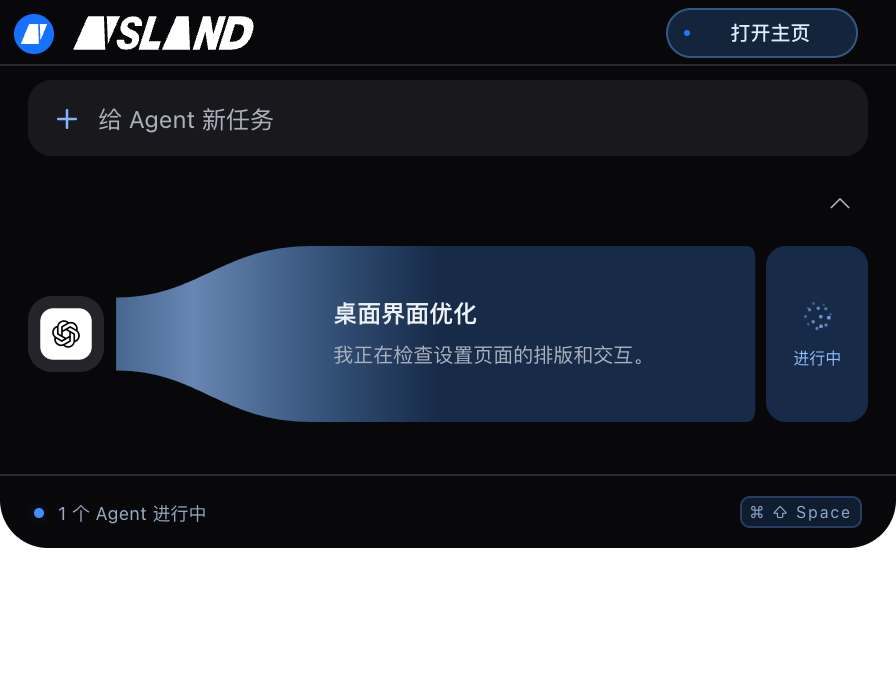
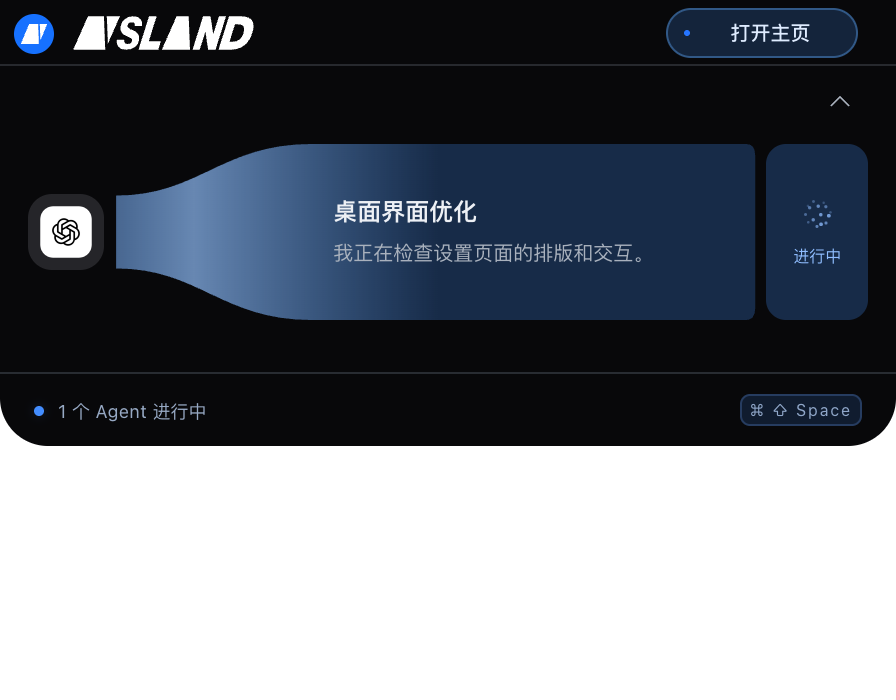
Publish streamlined workspace in AISLAND 0.3.36

diff --git a/public/docs/index.html b/public/docs/index.html
@@ -1,7 +1,7 @@
-<!doctype html><html lang="zh-CN"><head><meta charset="utf-8"><meta name="viewport" content="width=device-width,initial-scale=1"><title>使用文档 — AISLAND</title><meta name="description" content="AISLAND 的安装、快速体验、Node.js 与 Python 接入、审批安全和本地数据说明。"><meta name="theme-color" content="#ffffff"><link rel="canonical" href="https://calibg.github.io/agent-island/docs/"><link rel="icon" href="../assets/icon.svg?v=runways-35" type="image/svg+xml"><link rel="stylesheet" href="../marketing.css"><link rel="stylesheet" href="../docs.css"><script src="../site.js" defer></script></head><body class="landing">
-<a class="skip-link" href="#main">跳到文档内容</a><header class="header"><div class="container header-inner"><a class="brand" href="../"><img src="../assets/wordmark.svg?v=runways-35" width="150" height="28" alt="AISLAND"></a><nav class="nav" id="navigation" aria-label="主导航"><a href="../#product">产品体验</a><a href="../#connect">通用接入</a><a href="./" aria-current="page">使用文档</a></nav><a class="nav-download" href="../#download">下载体验 <span aria-hidden="true">↗</span></a><button class="menu-toggle" aria-expanded="false" aria-controls="navigation" aria-label="展开导航"><span></span><span></span></button></div></header>
+<!doctype html><html lang="zh-CN"><head><meta charset="utf-8"><meta name="viewport" content="width=device-width,initial-scale=1"><title>使用文档 — AISLAND</title><meta name="description" content="AISLAND 的安装、快速体验、Node.js 与 Python 接入、审批安全和本地数据说明。"><meta name="theme-color" content="#ffffff"><link rel="canonical" href="https://calibg.github.io/agent-island/docs/"><link rel="icon" href="../assets/icon.svg?v=workspace-36" type="image/svg+xml"><link rel="stylesheet" href="../marketing.css"><link rel="stylesheet" href="../docs.css"><script src="../site.js" defer></script></head><body class="landing">
+<a class="skip-link" href="#main">跳到文档内容</a><header class="header"><div class="container header-inner"><a class="brand" href="../"><img src="../assets/wordmark.svg?v=workspace-36" width="150" height="28" alt="AISLAND"></a><nav class="nav" id="navigation" aria-label="主导航"><a href="../#product">产品体验</a><a href="../#connect">通用接入</a><a href="./" aria-current="page">使用文档</a></nav><a class="nav-download" href="../#download">下载体验 <span aria-hidden="true">↗</span></a><button class="menu-toggle" aria-expanded="false" aria-controls="navigation" aria-label="展开导航"><span></span><span></span></button></div></header>
 <div class="container docs-layout"><aside class="docs-sidebar" aria-label="文档目录"><p class="eyebrow">GETTING STARTED</p><a href="#install">安装与打开</a><a href="#first-use">第一次体验</a><a href="#desktop-agents">桌面 Agent 与启动设置</a><a href="#quickstart">接入你的 Agent</a><a href="#approvals">审批与问答</a><a href="#capabilities">当前支持范围</a><a href="#privacy">数据与隐私</a><a href="#troubleshooting">常见问题</a><a href="./protocol.md">完整 HTTP 协议 ↗</a></aside>
-<main class="docs-content" id="main"><p class="eyebrow">AISLAND / DOCUMENTATION</p><h1>从这里，开始登岛。</h1><p class="docs-lead">安装应用，体验小岛，再把你自己的 Agent 接进来。<br>适用于 v0.3.35 预览版。</p>
+<main class="docs-content" id="main"><p class="eyebrow">AISLAND / DOCUMENTATION</p><h1>从这里，开始登岛。</h1><p class="docs-lead">安装应用，体验小岛，再把你自己的 Agent 接进来。<br>适用于 v0.3.36 预览版。</p>
 <section id="install"><h2>安装与打开</h2><p>应用本身不需要 Node.js 或 Python。Claude Code、Codex、WorkBuddy、Antigravity 的 Hooks 需要 Python 3.9+；对应 SDK 需要 Node.js 20+ 或 Python 3.9+。</p><h3>macOS · Apple Silicon</h3><ol><li>从<a href="../#download">下载页面</a>获取 DMG，打开后将 AISLAND 拖入 Applications（应用程序）。</li><li>从应用程序中启动 AISLAND。</li><li>当前提供 M 系列芯片版本，尚未提供 Intel 安装包。</li></ol><p>桌面界面跟随系统明暗模式。macOS 开关使用 AppKit NSSwitch；Windows 设置使用微软官方 Fluent UI React 组件，并保留系统窗口按钮。</p><h3>Windows · x64</h3><ol><li>下载 EXE 安装程序，按提示安装并打开。</li></ol><div class="doc-note"><p>当前是未签名的预览版，尚未完成 Apple Developer ID 公证或 Windows Authenticode 签名。首次打开可能出现系统来源提示，请先确认下载地址和<a href="../download-checksums.txt">文件校验信息</a>。Mac 已完成自动化验证，Windows 安装包已构建，尚待实机验证。</p></div><p>应用常驻菜单栏或系统托盘。关闭管理窗口不会退出应用；如需完全退出，请使用托盘菜单中的「退出」。</p></section>
 <section class="doc-section" id="first-use"><h2>接入 Claude Code</h2><ol><li>启动 AISLAND，打开「工具接入」，点击 Claude Code 的「安装接入」。这一步需要 Python 3.9+。</li><li>在项目终端运行 <code>claude</code>。已启动的会话可重启一次或用 <code>/hooks</code> 检查配置。</li><li>提交真实任务后，小岛显示运行状态；权限确认和问题回答会返回当前 Claude Code 会话。</li></ol><p>保留你已有的 Hooks、模型和权限配置。只有明确确认才允许操作；小岛不在线或请求超时，回到 Claude Code 原有交互。计划确认仍在终端处理。</p><p>快捷键：macOS 为 Cmd + Shift + Space，Windows 为 Ctrl + Shift + Space。</p></section>
 <section id="desktop-agents"><h2>Codex、Antigravity 与接入助手</h2><p>在应用「工具接入」中打开接入助手。先检查 Python 3.9+ 和 Codex，再安装接入配置。助手保留已有配置并备份，不会更改权限策略。</p><h3>Codex 桌面软件</h3><ol><li>点击「安装 Codex 接入」，等待写入完成。</li><li>点击「打开审核终端」，在 Codex 中输入 <code>/hooks</code>，审核并信任「AISLAND · Codex」条目。审核不会自动进行。</li><li>回到小岛点击「重新检查」。显示已启用并信任后，重启 Codex 桌面端并开启新任务。</li></ol><p>支持真实进度、工具调用、权限确认、结束与中断。问答和计划仍在 Codex 中完成。用户级 Hooks 也会被同一配置下的 CLI 加载；小岛跳转唤起桌面软件，不定位具体聊天。</p><h3>Antigravity</h3><p>在对应接入卡片点击安装，重启 Antigravity 并开启新任务。支持进度、工具调用与后台任务状态。权限和问答在 Antigravity 内处理。</p><h3>登录后自动运行</h3><p>「登录后自动启动小岛」与「启动时运行接入检查」是独立开关，默认关闭。前者运行本机服务；后者只读检查环境与 Hooks 状态，发现未完成步骤时显示助手，不自动批准 Hooks。</p><p>应用先放入应用程序目录或通过 Windows 安装程序安装。系统要求批准登录项时，请在系统设置中完成；未签名 macOS 预览包的登录启动可能受系统限制。界面显示系统实际状态，不能等同于已经实测重启。</p><p>「已配置」不代表已经连接。收到真实 Hook 后才显示事件回执。安装脚本与配置不上传网站。</p></section><section class="doc-section" id="quickstart"><h2>接入你的 Agent</h2><h3>第一次接入：复制一段指令</h3><ol><li>在 AISLAND 打开「工具接入」，点击「复制接入指令」。</li><li>粘贴到这台电脑上的 Agent 对话中，让它按指令完成接入配置。</li><li>回到 AISLAND。收到对应 Agent 的回执后，导览会自动显示「本机通信已验证」。</li></ol><p>无需手动填写端口或拼接命令，SDK 路径和接入说明会自动加入指令。适用于能读取本机文件、执行命令的 Agent；仅聊天的网页应用不能靠粘贴文字接入。验证不会创建演示任务。真实进度、审批和问答需由 Agent 接入对应的回调，后台派发能力单独判断。SDK、地址和示例命令仍可在「高级接入」中找到。</p><h3>开发者：手动接入 SDK</h3><p>先启动 AISLAND，再把 SDK 文件复制到你自己的项目。SDK 会读取当前用户目录下的本机连接信息，向应用报告状态。无需第三方依赖，也不需要填写 AI 服务密钥。</p><div class="doc-downloads"><a class="button" href="../sdk/agent-island.mjs" download>下载 Node.js SDK ↓</a><a class="button" href="../sdk/agent_island.py" download>下载 Python SDK ↓</a><a class="button" href="../sdk/example.mjs" download>下载完整 Node.js 示例 ↓</a></div><h3>Node.js</h3><p>将以下代码保存为 <code>connect.mjs</code>，与 <code>agent-island.mjs</code> 放在同一个目录，然后运行 <code>node connect.mjs</code>。</p><pre><code>import { AgentIsland } from './agent-island.mjs';
@@ -33,10 +33,10 @@ if (result.decision === 'allow') {
 } else {
   await island.complete('操作未获批准。');
 }</code></pre><p>审批最多等待约 10 分钟。超时、断线、会话结束、应用退出或重启，都不会自动批准。接入方必须把错误与 <code>cancel</code> 视为未批准，不应在捕获异常后继续执行待确认操作。</p><p>Node.js SDK 还提供 <code>ask()</code>（单选、多选、自定义回答）、<code>plan()</code>（计划与反馈）和 <code>usage()</code>（真实上报的用量）。可下载完整示例体验双向交互。Python 可用 <code>send()</code> 发送协议定义的其他事件。</p></section>
-<section class="doc-section" id="more-agents"><h2>Gemini、Cursor、MiniMax 与智谱</h2><p>v0.3.29 新增 Gemini CLI 与 Cursor 的官方 Hooks 观察接入。在「工具接入」安装后开启新会话，收到任务事件才显示已收到事件。支持任务和工具状态、最终回复；审批与续发仍在原应用完成。Gemini CLI 与 Gemini 网页是不同的接入。</p><p>MiniMax Code 使用本地 Plugin V1 Hooks。安装官方 MiniMax Code 和 mcode 命令后，在「工具接入 → MiniMax Code」点击「接入」：AISLAND 会查询当前配置的本地插件目录，安装、启用并检查插件。更新前备份旧插件，遇到其他同名插件不会覆盖。也可以展开说明选择「手动安装插件」。开始真实任务后收到事件，才说明进度链路已接通；审批、问答与续发仍在 MiniMax Code 完成。MiniMax Design 不适用。</p><p>智谱 GLM 可通过已配置 GLM 的 Claude Code 接入：安装 Claude Code Hooks 后，根据事件明确提供的模型标识显示智谱，仍续发到同一个 Claude Code 会话。不会自动连接智谱清言或 AutoGLM。智谱清言客户端已单独列出，目前原会话读取、进度同步与后台续发仍待实机验证；开放平台的助手 API 不代表已经接通清言客户端。</p><p>豆包电脑版、Grok 原有对话的状态同步与后台续发目前尚未接通；公开模型 API 不代表可以读取这些产品里的现有对话。应用会明确显示限制。</p><p>新适配器已通过隔离 Hook 进程与本地桥的协议测试；所有新客户端的用户账户实机验收仍待完成。官方参考：<a href="https://geminicli.com/docs/hooks/reference/">Gemini CLI Hooks</a>、<a href="https://cursor.com/docs/hooks">Cursor Hooks</a>、<a href="https://github.com/MiniMax-AI/minimax-code/blob/main/docs/hooks.md">MiniMax Hooks</a>、<a href="https://docs.bigmodel.cn/cn/coding-plan/best-practice/claude-code">智谱接入指南</a>。</p></section><section class="doc-section" id="capabilities"><h2>当前支持范围</h2><p>v0.3.35 简化会话分组：收起时只显示 Agent 名称和展开图标，空闲时为灰色跑道，有任务进行时显示蓝色渐变流动；展开后直接显示分叉内容，不重复展示分组名称、状态说明和会话数量。</p><p>v0.3.30 的分叉根据任务活动调整高度：活跃任务更突出，暂停、完成和长期无进展的会话更紧凑。左侧图标区域随任务量适度增长，始终小于分支总高度的 2/3。五分钟没有新进展只影响显示空间，不改变任务状态；鼠标操作或输入时固定布局，原有蓝色动效保留。</p><div class="table-scroll"><table><thead><tr><th>功能</th><th>v0.3.35 状态</th></tr></thead><tbody><tr><td>桌面小岛、悬停、快捷键、多显示器</td><td>已提供</td></tr><tr><td>Mac 原生刘海定位与 Force Touch 进入反馈</td><td>已提供；触感需支持的触控板</td></tr><tr><td>事件提示音、音量、安静时段、减少动态效果</td><td>已提供</td></tr><tr><td>会话搜索、筛选、活动记录、归档</td><td>已提供</td></tr><tr><td>审批、问答、计划审阅、用量上报</td><td>已提供</td></tr><tr><td>Node.js / Python / HTTP 通用接入</td><td>已提供</td></tr><tr><td>Claude Code Hooks</td><td>状态、权限确认与问答已提供；计划确认在终端</td></tr><tr><td>Codex / Antigravity</td><td>真实 Hooks 接入；具体能力与首次信任见上文</td></tr><tr><td>接入助手与启动检查</td><td>环境检查、官方信任状态、用户自行选择登录启动</td></tr><tr><td>厂商账户额度自动采集、SSH、手机推送、自动更新</td><td>未提供</td></tr></tbody></table></div><p>应用采用 Electron + React 与 macOS 原生面板模块。Mac 读取刘海安全区并从下沿展开；Windows 从屏幕顶部中央展开，外接屏无需物理刘海。AISLAND 为独立实现，不是 Vibe Island 的官方版本。</p></section>
+<section class="doc-section" id="more-agents"><h2>Gemini、Cursor、MiniMax 与智谱</h2><p>v0.3.29 新增 Gemini CLI 与 Cursor 的官方 Hooks 观察接入。在「工具接入」安装后开启新会话，收到任务事件才显示已收到事件。支持任务和工具状态、最终回复；审批与续发仍在原应用完成。Gemini CLI 与 Gemini 网页是不同的接入。</p><p>MiniMax Code 使用本地 Plugin V1 Hooks。安装官方 MiniMax Code 和 mcode 命令后，在「工具接入 → MiniMax Code」点击「接入」：AISLAND 会查询当前配置的本地插件目录，安装、启用并检查插件。更新前备份旧插件，遇到其他同名插件不会覆盖。也可以展开说明选择「手动安装插件」。开始真实任务后收到事件，才说明进度链路已接通；审批、问答与续发仍在 MiniMax Code 完成。MiniMax Design 不适用。</p><p>智谱 GLM 可通过已配置 GLM 的 Claude Code 接入：安装 Claude Code Hooks 后，根据事件明确提供的模型标识显示智谱，仍续发到同一个 Claude Code 会话。不会自动连接智谱清言或 AutoGLM。智谱清言客户端已单独列出，目前原会话读取、进度同步与后台续发仍待实机验证；开放平台的助手 API 不代表已经接通清言客户端。</p><p>豆包电脑版、Grok 原有对话的状态同步与后台续发目前尚未接通；公开模型 API 不代表可以读取这些产品里的现有对话。应用会明确显示限制。</p><p>新适配器已通过隔离 Hook 进程与本地桥的协议测试；所有新客户端的用户账户实机验收仍待完成。官方参考：<a href="https://geminicli.com/docs/hooks/reference/">Gemini CLI Hooks</a>、<a href="https://cursor.com/docs/hooks">Cursor Hooks</a>、<a href="https://github.com/MiniMax-AI/minimax-code/blob/main/docs/hooks.md">MiniMax Hooks</a>、<a href="https://docs.bigmodel.cn/cn/coding-plan/best-practice/claude-code">智谱接入指南</a>。</p></section><section class="doc-section" id="capabilities"><h2>当前支持范围</h2><p>v0.3.36 移除桌面与小岛顶部的独立新任务横条，以及会话页的筛选、搜索和工具栏。可以继续通过每条会话右侧的状态节点输入后续任务。</p><p>v0.3.35 简化会话分组：收起时只显示 Agent 名称和展开图标，空闲时为灰色跑道，有任务进行时显示蓝色渐变流动；展开后直接显示分叉内容，不重复展示分组名称、状态说明和会话数量。</p><p>v0.3.30 的分叉根据任务活动调整高度：活跃任务更突出，暂停、完成和长期无进展的会话更紧凑。左侧图标区域随任务量适度增长，始终小于分支总高度的 2/3。五分钟没有新进展只影响显示空间，不改变任务状态；鼠标操作或输入时固定布局，原有蓝色动效保留。</p><div class="table-scroll"><table><thead><tr><th>功能</th><th>v0.3.36 状态</th></tr></thead><tbody><tr><td>桌面小岛、悬停、快捷键、多显示器</td><td>已提供</td></tr><tr><td>Mac 原生刘海定位与 Force Touch 进入反馈</td><td>已提供；触感需支持的触控板</td></tr><tr><td>事件提示音、音量、安静时段、减少动态效果</td><td>已提供</td></tr><tr><td>会话分组、后续任务、活动记录</td><td>已提供</td></tr><tr><td>审批、问答、计划审阅、用量上报</td><td>已提供</td></tr><tr><td>Node.js / Python / HTTP 通用接入</td><td>已提供</td></tr><tr><td>Claude Code Hooks</td><td>状态、权限确认与问答已提供；计划确认在终端</td></tr><tr><td>Codex / Antigravity</td><td>真实 Hooks 接入；具体能力与首次信任见上文</td></tr><tr><td>接入助手与启动检查</td><td>环境检查、官方信任状态、用户自行选择登录启动</td></tr><tr><td>厂商账户额度自动采集、SSH、手机推送、自动更新</td><td>未提供</td></tr></tbody></table></div><p>应用采用 Electron + React 与 macOS 原生面板模块。Mac 读取刘海安全区并从下沿展开；Windows 从屏幕顶部中央展开，外接屏无需物理刘海。AISLAND 为独立实现，不是 Vibe Island 的官方版本。</p></section>
 <section class="doc-section" id="privacy"><h2>数据与隐私</h2><p>桌面应用的桥接服务只监听 <code>127.0.0.1</code>，不向局域网开放。请求需通过本机令牌验证，并拒绝携带浏览器 Origin 的请求。不要公开或分享 <code>connection.json</code>。</p><p>会话文本与操作预览保存在 <code>~/.agent-island/state.json</code>。记录默认保留 7 天，下次启动时清理过期记录。在偏好设置中可打开数据目录。</p><p>AISLAND 默认只在本机运行，不设置遥测。主动启用手机连接后，进度摘要和手机指令在设备上用 AES-256-GCM 加密，再经过你配置的 Cloudflare Workers / D1 同步；服务端不持有解密密钥。电脑超过 24 小时不再同步时，服务会清理旧连接。手机配对信息保存在设备本地，配对链接相当于访问凭据，不要分享。你所接入的 AI 工具可能有自己的网络行为与数据策略，请以对应工具的设置为准。</p><p>本官网不嵌入分析追踪器，也不设置账户系统。网页由 GitHub Pages 托管，安装包通过 GitHub Releases 分发；访问与下载产生的基础服务日志由 GitHub 按其<a href="https://docs.github.com/en/site-policy/privacy-policies/github-general-privacy-statement">隐私声明</a>处理。</p></section>
 <section class="doc-section" id="mobile"><h2>手机同步与控制</h2><p>自部署用户可下载<a href="https://github.com/CaliBG/agent-island/releases/download/v0.3.0/Agent-Island-Sync-0.1.0.zip">免费同步服务部署包</a>，按其中 README 设置 Workers 和 D1。</p><ol><li>在电脑打开「设置 → 手机与远程」，配置你自己的 Cloudflare Workers 免费同步服务，然后生成配对码。已配置服务的电脑可直接生成二维码。</li><li>手机打开<a href="../mobile/">移动端</a>，扫码或粘贴配对链接。二维码仅用于配对，有效期 10 分钟。</li><li>iPhone 可通过 Safari「分享 → 添加到主屏幕」免费使用。Android 可从官网下载 APK 安装；原生预览版尚待真机验证。</li><li>按需在电脑分别允许「发送 Agent 任务」「调整保持唤醒」「打开远程控制软件」。三项默认关闭。</li></ol><p>前台约 5 秒刷新，手机进入后台后暂停轮询。电脑需运行 AISLAND 并联网；离线时只能查看最后同步的数据。发送后的“已排队”不等于执行成功，请以电脑返回的回执为准。保持唤醒不会解除手动锁屏，远程软件仍使用自身的登录和验证。</p><p>同步后端使用 Workers / D1 免费额度，超额时可能暂停，不会自动升级付费。AI 工具本身的订阅、额度以及第三方远程软件的收费由各厂商决定。iOS 原生工程已编译验证，尚未提供 App Store / TestFlight 安装。</p></section>
 <section class="doc-section" id="task-input"><h2>从小岛发送任务</h2><p>点击「给 Agent 新任务」，选择 Agent 和原对话；鼠标靠近分支右侧的状态按钮会自动弹出输入气泡；点击输入框后取得键盘焦点，已结束的会话也可正常输入。Codex、Claude Code 支持原会话续发，保留上下文；运行中可以排队发送，任务完成后自动续发，每个会话最多一条，可撤回编辑。应用重启或当前任务异常后，队列会暂停，需确认后重新提交。</p><p>Codex 使用官方 app-server 恢复同一个会话，桌面客户端可能需要重新打开对话才能显示新内容；Claude Code 使用官方 Agent SDK。两者沿用本机已有登录，不要求另外填写 API Key。需要审批时，在小岛逐次确认。</p></section>
 <section class="doc-section" id="workbuddy"><h2>接入 WorkBuddy</h2><ol><li>打开「设置 → Agent 接入 → WorkBuddy → 接入」。</li><li>在 WorkBuddy 审核新增 Hooks，再开启新会话；旧会话可能需要重启后加载配置。</li><li>开始真实任务后，设置页会显示「已收到事件」和时间；「已配置」只代表配置已写入。</li></ol><p>当前同步任务、工具调用、结束状态。v0.3.10 增加「填入原对话」：核对会话后通过系统辅助功能填入输入框，已有草稿不会覆盖，发送仍需在 WorkBuddy 确认。Mac 首次使用需允许辅助功能；适配 WorkBuddy 5.11.2，Mac 已由用户验证文字进入正确原对话框；Windows 实机仍待验收。Antigravity 和其他通用接入尚不支持可靠续发，输入框会明确提示。审批与问答仍在 WorkBuddy 完成。安装器会备份配置并保留其他 Hooks 和权限规则。</p></section><section class="doc-section" id="troubleshooting"><h2>常见问题</h2><h3>示例提示找不到 connection.json</h3><p>先打开 AISLAND，确认「工具接入」显示本地连接正常。SDK 和应用需要在同一台电脑、同一用户下运行。自定义数据路径时，可使用 <code>AGENT_ISLAND_HOME</code> 指向相应目录。</p><h3>小岛没有显示在预期位置</h3><p>使用快捷键唤起，或从托盘菜单打开管理窗口，检查偏好设置中的显示器与浮动方式。显示器断开后，应用会回退到可用屏幕。</p><h3>MacBook 没有感觉到震动</h3><p>在设置 → 外观与交互中开启「触控板触感」，将手指放在支持 Force Touch 的触控板上，点击「试一下」。每次进入只发送一次触感，默认清脆模式，可切换标准或轻触。系统公开接口不支持改变单次震动振幅。区域内移动不重复，移出再进入重新触发。声音开关与触感开关相互独立，普通鼠标本身不会震动。</p><h3>无法跳回终端</h3><p>macOS 首次定位 Terminal / iTerm2 会话可能需要系统自动化权限。Windows 在管理员窗口或某些全屏应用下可能拒绝切换焦点。若无法定位会话，可先从工具界面打开对应项目目录。</p><h3>发现其他问题</h3><p>请通过 <a href="https://github.com/CaliBG/agent-island/issues">GitHub Issues</a> 描述操作系统、应用版本与复现步骤。提交截图或日志前，请移除连接令牌、个人路径和项目敏感内容。</p></section>
-<div class="docs-footer">AISLAND v0.3.35 · <a href="../">返回官网</a> · <a href="https://github.com/CaliBG/agent-island/releases/tag/v0.3.35">查看发布记录</a></div></main></div>
+<div class="docs-footer">AISLAND v0.3.36 · <a href="../">返回官网</a> · <a href="https://github.com/CaliBG/agent-island/releases/tag/v0.3.36">查看发布记录</a></div></main></div>
 </body></html>

diff --git a/public/index.html b/public/index.html
@@ -5,24 +5,24 @@
 <title>AISLAND — 少一点切换，多一点专注。</title>
 <meta name="description" content="把 Claude Code、Codex、WorkBuddy 和 Antigravity 的工作进度带到屏幕顶部。真实事件、本地运行、按需回应。下载适用于 macOS 和 Windows 的 AISLAND。">
 <meta name="theme-color" content="#ffffff"><link rel="canonical" href="https://calibg.github.io/agent-island/">
-<meta property="og:type" content="website"><meta property="og:title" content="AISLAND — 少一点切换，多一点专注。"><meta property="og:description" content="Agent 继续工作，你继续专注。macOS + Windows 桌面灵动岛。"><meta property="og:url" content="https://calibg.github.io/agent-island/"><meta property="og:image" content="https://calibg.github.io/agent-island/assets/social.png?v=runways-35"><meta name="twitter:card" content="summary_large_image">
-<link rel="icon" type="image/svg+xml" href="./assets/icon.svg?v=runways-35"><link rel="preload" as="font" href="./assets/departure-mono.woff2" type="font/woff2" crossorigin>
+<meta property="og:type" content="website"><meta property="og:title" content="AISLAND — 少一点切换，多一点专注。"><meta property="og:description" content="Agent 继续工作，你继续专注。macOS + Windows 桌面灵动岛。"><meta property="og:url" content="https://calibg.github.io/agent-island/"><meta property="og:image" content="https://calibg.github.io/agent-island/assets/social.png?v=workspace-36"><meta name="twitter:card" content="summary_large_image">
+<link rel="icon" type="image/svg+xml" href="./assets/icon.svg?v=workspace-36"><link rel="preload" as="font" href="./assets/departure-mono.woff2" type="font/woff2" crossorigin>
 <link rel="stylesheet" href="./marketing.css"><link rel="stylesheet" href="./ui/hover-buttons.css"><script src="./site.js" defer></script><script type="module" src="./ui/hover-buttons.js"></script>
 </head>
 <body>
 <a class="skip-link" href="#main">跳到主要内容</a>
-<header class="header"><div class="container header-inner"><a href="./" class="brand" aria-label="AISLAND 首页"><img class="aisland-wordmark" src="./assets/wordmark.svg?v=runways-35" width="150" height="28" alt="AISLAND"></a><nav class="nav" aria-label="主导航"><a href="#product">产品</a><a href="#connect">接入</a><a href="./mobile/">手机端</a><a href="./docs/">文档 ↗</a></nav><a class="nav-download" href="#download">免费下载 <span aria-hidden="true">↗</span></a></div></header>
+<header class="header"><div class="container header-inner"><a href="./" class="brand" aria-label="AISLAND 首页"><img class="aisland-wordmark" src="./assets/wordmark.svg?v=workspace-36" width="150" height="28" alt="AISLAND"></a><nav class="nav" aria-label="主导航"><a href="#product">产品</a><a href="#connect">接入</a><a href="./mobile/">手机端</a><a href="./docs/">文档 ↗</a></nav><a class="nav-download" href="#download">免费下载 <span aria-hidden="true">↗</span></a></div></header>
 <main id="main">
 <section class="hero container" aria-labelledby="hero-title">
-<div class="hero-copy"><a class="release-link" href="#download"><span class="status-dot"></span>v0.3.35 现已推出 <span>↗</span></a><h1 id="hero-title">专注，<br><span>不必切换。</span></h1><p class="hero-description">让 Agent 继续工作。<br>需要你的时刻，屏幕顶部见。</p><div class="hero-actions"><span data-hover-button data-variant="light"><a class="button-fallback" href="#download">下载 AISLAND</a></span><a class="quiet-link" href="#product">看看小岛 <span aria-hidden="true">↓</span></a></div><p class="hero-note">macOS + Windows <span>·</span> 无需注册</p></div>
-<div class="hero-visual"><div class="laptop-mockup" role="group" aria-label="MacBook 比例样机，嵌入真实软件截图"><div class="laptop-screen"><div class="screen-toolbar" aria-hidden="true"><span>AISLAND</span><span>本机连接</span></div><div class="device-notch" aria-hidden="true"></div><div class="screen-content"><img src="./assets/sessions.png?v=runways-35" alt="AISLAND 真实会话管理界面" width="2200" height="1560" fetchpriority="high"></div></div><div class="laptop-base" aria-hidden="true"><i></i></div><div class="laptop-foot" aria-hidden="true"></div></div><p class="visual-caption">你的工具，照常工作。<span>你的注意力，自由。</span></p></div>
+<div class="hero-copy"><a class="release-link" href="#download"><span class="status-dot"></span>v0.3.36 现已推出 <span>↗</span></a><h1 id="hero-title">专注，<br><span>不必切换。</span></h1><p class="hero-description">让 Agent 继续工作。<br>需要你的时刻，屏幕顶部见。</p><div class="hero-actions"><span data-hover-button data-variant="light"><a class="button-fallback" href="#download">下载 AISLAND</a></span><a class="quiet-link" href="#product">看看小岛 <span aria-hidden="true">↓</span></a></div><p class="hero-note">macOS + Windows <span>·</span> 无需注册</p></div>
+<div class="hero-visual"><div class="laptop-mockup" role="group" aria-label="MacBook 比例样机，嵌入真实软件截图"><div class="laptop-screen"><div class="screen-toolbar" aria-hidden="true"><span>AISLAND</span><span>本机连接</span></div><div class="device-notch" aria-hidden="true"></div><div class="screen-content"><img src="./assets/sessions.png?v=workspace-36" alt="AISLAND 真实会话管理界面" width="2200" height="1560" fetchpriority="high"></div></div><div class="laptop-base" aria-hidden="true"><i></i></div><div class="laptop-foot" aria-hidden="true"></div></div><p class="visual-caption">你的工具，照常工作。<span>你的注意力，自由。</span></p></div>
 </section>
 <div class="compatibility container"><span>与你的 Agent 一起</span><div><span class="agent-wordmark claude-wordmark">✳ <b>Claude Code</b></span><span class="agent-wordmark">⌘ <b>Codex</b></span><span class="agent-wordmark">⌁ <b>Antigravity</b></span></div><a href="#connect">↗</a></div>
-<section id="product" class="product-section container" aria-labelledby="product-title"><div class="section-heading"><div><p class="eyebrow">01 / 小岛，很轻。</p><h2 id="product-title">抬头，<em>即见。</em></h2></div><p class="section-intro">进度、审批、回应。<br>出现得刚刚好。</p></div><div class="product-editorial"><figure class="island-figure"><div class="screen-edge" aria-hidden="true"><span></span><i></i><span></span></div><img src="./assets/island-live.png?v=runways-35" alt="屏幕顶部展开的小岛，显示示例 Codex 会话" width="896" height="700" loading="lazy"><figcaption>软件界面截图</figcaption></figure><div class="product-benefits"><article><span>01</span><h3>一眼看清进度</h3></article><article><span>02</span><h3>一次回应请求</h3></article><article><span>03</span><h3>一瞬回到专注</h3></article><a class="quiet-link" href="#download">把小岛放上桌面 ↗</a></div></div></section>
+<section id="product" class="product-section container" aria-labelledby="product-title"><div class="section-heading"><div><p class="eyebrow">01 / 小岛，很轻。</p><h2 id="product-title">抬头，<em>即见。</em></h2></div><p class="section-intro">进度、审批、回应。<br>出现得刚刚好。</p></div><div class="product-editorial"><figure class="island-figure"><div class="screen-edge" aria-hidden="true"><span></span><i></i><span></span></div><img src="./assets/island-live.png?v=workspace-36" alt="屏幕顶部展开的小岛，显示示例 Codex 会话" width="896" height="700" loading="lazy"><figcaption>软件界面截图</figcaption></figure><div class="product-benefits"><article><span>01</span><h3>一眼看清进度</h3></article><article><span>02</span><h3>一次回应请求</h3></article><article><span>03</span><h3>一瞬回到专注</h3></article><a class="quiet-link" href="#download">把小岛放上桌面 ↗</a></div></div></section>
 <section class="focus-story" aria-labelledby="focus-title"><div class="container story-heading"><p class="eyebrow" id="focus-title">让注意力，留在此刻。</p><button id="crawl-toggle" type="button" aria-pressed="false">暂停动效 <span aria-hidden="true">Ⅱ</span></button></div><div class="crawl-viewport" aria-hidden="true"><div class="crawl-plane"><div class="crawl-copy"><p>少一点切换。</p><p>多一点专注。</p><p>让工作继续。</p><p>让进度来找你。</p><p>少一点切换。</p><p>多一点专注。</p></div></div></div><p class="sr-only">让 Agent 继续工作，把注意力留给手头的事。任务需要你的决定时，小岛会出现。</p><div class="story-bottom container"><span>ONE QUIET ISLAND.</span><a class="quiet-link" href="#download">开始专注 ↗</a></div></section>
-<section class="workspace-section container" aria-labelledby="workspace-title"><div class="section-heading"><div><p class="eyebrow">02 / 看见全貌。</p><h2 id="workspace-title">简单，也<em>完整。</em></h2></div><div class="product-tabs" role="tablist" aria-label="应用界面展示"><button role="tab" aria-selected="true" id="tab-sessions" aria-controls="product-panel" data-view="sessions">会话管理</button><button role="tab" aria-selected="false" tabindex="-1" id="tab-integrations" aria-controls="product-panel" data-view="integrations">工具接入</button><button role="tab" aria-selected="false" tabindex="-1" id="tab-settings" aria-controls="product-panel" data-view="settings">个人偏好</button></div></div><figure class="workspace-window" id="product-panel" role="tabpanel" aria-labelledby="tab-sessions" tabindex="0"><div class="window-rim"><span class="window-dots" aria-hidden="true"><i></i><i></i><i></i></span><span>AISLAND</span><span>界面截图 · 示例会话</span></div><img id="product-image" src="./assets/sessions.png?v=runways-35" width="2200" height="1560" loading="lazy" alt="AISLAND 真实会话管理界面"></figure><div class="product-caption"><p id="product-description">每个 Agent 一个位置，展开查看会话分支。</p><a href="#download">下载体验 ↗</a></div></section>
+<section class="workspace-section container" aria-labelledby="workspace-title"><div class="section-heading"><div><p class="eyebrow">02 / 看见全貌。</p><h2 id="workspace-title">简单，也<em>完整。</em></h2></div><div class="product-tabs" role="tablist" aria-label="应用界面展示"><button role="tab" aria-selected="true" id="tab-sessions" aria-controls="product-panel" data-view="sessions">会话管理</button><button role="tab" aria-selected="false" tabindex="-1" id="tab-integrations" aria-controls="product-panel" data-view="integrations">工具接入</button><button role="tab" aria-selected="false" tabindex="-1" id="tab-settings" aria-controls="product-panel" data-view="settings">个人偏好</button></div></div><figure class="workspace-window" id="product-panel" role="tabpanel" aria-labelledby="tab-sessions" tabindex="0"><div class="window-rim"><span class="window-dots" aria-hidden="true"><i></i><i></i><i></i></span><span>AISLAND</span><span>界面截图 · 示例会话</span></div><img id="product-image" src="./assets/sessions.png?v=workspace-36" width="2200" height="1560" loading="lazy" alt="AISLAND 真实会话管理界面"></figure><div class="product-caption"><p id="product-description">每个 Agent 一个位置，展开查看会话分支。</p><a href="#download">下载体验 ↗</a></div></section>
 <section id="connect" class="connection-section container" aria-labelledby="connect-title"><div class="section-heading"><div><p class="eyebrow">03 / 连接一次。</p><h2 id="connect-title">此后，<em>照常工作。</em></h2></div><a href="./docs/#desktop-agents" class="quiet-link">跟随接入助手，开始连接 ↗</a></div><div class="integration-table"><article><div class="integration-name"><span>✳</span><h3>Claude Code</h3></div><p>进度 · 审批 · 问答</p><a href="./docs/#first-use" aria-label="Claude Code 接入说明">↗</a></article><article><div class="integration-name"><span>⌘</span><h3>Codex</h3></div><p>进度 · 审批 · 首次信任</p><a href="./docs/#desktop-agents" aria-label="Codex 接入说明">↗</a></article><article><div class="integration-name"><span>⌁</span><h3>Antigravity</h3></div><p>进度 · 工具 · 后台状态</p><a href="./docs/#desktop-agents" aria-label="Antigravity 接入说明">↗</a></article></div><div class="connection-note"><span>是否随登录启动，由你选择。</span><a href="./docs/#more-agents">Gemini · Cursor · MiniMax 接入 ↗</a></div></section>
-<section id="download" class="download-section" aria-labelledby="download-title"><div class="container"><div class="download-heading"><p class="eyebrow">你的下一次专注，从这里开始。</p><h2 id="download-title">给桌面，<em>一座小岛。</em></h2><p>本地运行。无需注册。免费预览。</p></div><div class="download-grid"><article class="download-card"><div class="download-title"><span aria-hidden="true">⌘</span><div><h3>macOS</h3><p>Apple Silicon · M 系列</p></div><span class="version-label">0.3.35</span></div><span data-hover-button data-full-width="true" data-variant="light"><a class="button-fallback" href="https://github.com/CaliBG/agent-island/releases/download/v0.3.35/Agent-Island-0.3.35-mac-arm64.dmg">下载 Mac 版</a></span><div class="download-meta"><span>DMG · 127.3 MiB</span><a href="./docs/#install">安装说明 ↗</a></div></article><article class="download-card"><div class="download-title"><span aria-hidden="true">⊞</span><div><h3>Windows</h3><p>x64 · 安装版</p></div><span class="version-label">0.3.35</span></div><span data-hover-button data-full-width="true"><a class="button-fallback" href="https://github.com/CaliBG/agent-island/releases/download/v0.3.35/Agent-Island-0.3.35-win-x64.exe">下载 Windows 版</a></span><div class="download-meta"><span>EXE · 125.0 MiB</span><a href="./docs/#install">安装说明 ↗</a></div></article></div><div class="mobile-download"><div><strong>把进度带在身边。</strong><p>iPhone 添加到主屏幕 · Android 安装 APK</p></div><a href="./mobile/">打开手机端 ↗</a><a href="https://github.com/CaliBG/agent-island/releases/download/v0.3.23/AISLAND-Mobile-0.1.4-android.apk">下载 Android ↗</a></div><div class="release-note"><p>未签名预览版 · Hooks 需要 Python 3.9+ · Windows 实机待验证</p><div><a href="https://github.com/CaliBG/agent-island/releases/tag/v0.3.35">版本说明 ↗</a><a href="./download-checksums.txt">SHA-256 校验 ↗</a></div></div></div></section>
+<section id="download" class="download-section" aria-labelledby="download-title"><div class="container"><div class="download-heading"><p class="eyebrow">你的下一次专注，从这里开始。</p><h2 id="download-title">给桌面，<em>一座小岛。</em></h2><p>本地运行。无需注册。免费预览。</p></div><div class="download-grid"><article class="download-card"><div class="download-title"><span aria-hidden="true">⌘</span><div><h3>macOS</h3><p>Apple Silicon · M 系列</p></div><span class="version-label">0.3.36</span></div><span data-hover-button data-full-width="true" data-variant="light"><a class="button-fallback" href="https://github.com/CaliBG/agent-island/releases/download/v0.3.36/Agent-Island-0.3.36-mac-arm64.dmg">下载 Mac 版</a></span><div class="download-meta"><span>DMG · 127.3 MiB</span><a href="./docs/#install">安装说明 ↗</a></div></article><article class="download-card"><div class="download-title"><span aria-hidden="true">⊞</span><div><h3>Windows</h3><p>x64 · 安装版</p></div><span class="version-label">0.3.36</span></div><span data-hover-button data-full-width="true"><a class="button-fallback" href="https://github.com/CaliBG/agent-island/releases/download/v0.3.36/Agent-Island-0.3.36-win-x64.exe">下载 Windows 版</a></span><div class="download-meta"><span>EXE · 125.0 MiB</span><a href="./docs/#install">安装说明 ↗</a></div></article></div><div class="mobile-download"><div><strong>把进度带在身边。</strong><p>iPhone 添加到主屏幕 · Android 安装 APK</p></div><a href="./mobile/">打开手机端 ↗</a><a href="https://github.com/CaliBG/agent-island/releases/download/v0.3.23/AISLAND-Mobile-0.1.4-android.apk">下载 Android ↗</a></div><div class="release-note"><p>未签名预览版 · Hooks 需要 Python 3.9+ · Windows 实机待验证</p><div><a href="https://github.com/CaliBG/agent-island/releases/tag/v0.3.36">版本说明 ↗</a><a href="./download-checksums.txt">SHA-256 校验 ↗</a></div></div></div></section>
 
-</main><footer class="footer container"><a class="brand" href="./"><img class="aisland-wordmark" src="./assets/wordmark.svg?v=runways-35" width="150" height="28" alt="AISLAND"></a><p>© 2026</p><div><a href="./docs/">文档</a><a href="./docs/#privacy">隐私</a><a href="https://github.com/CaliBG/agent-island">GitHub ↗</a></div><a href="#main" aria-label="回到顶部">↑</a></footer><div class="toast" role="status" aria-live="polite"></div>
+</main><footer class="footer container"><a class="brand" href="./"><img class="aisland-wordmark" src="./assets/wordmark.svg?v=workspace-36" width="150" height="28" alt="AISLAND"></a><p>© 2026</p><div><a href="./docs/">文档</a><a href="./docs/#privacy">隐私</a><a href="https://github.com/CaliBG/agent-island">GitHub ↗</a></div><a href="#main" aria-label="回到顶部">↑</a></footer><div class="toast" role="status" aria-live="polite"></div>
 </body></html>

diff --git a/public/site.js b/public/site.js
@@ -23,7 +23,7 @@ const views = {
 function selectView(name) {
   const view = views[name];
   $$('.product-tabs [role=tab]').forEach(tab => {tab.setAttribute('aria-selected', String(tab.dataset.view === name));tab.tabIndex = tab.dataset.view === name ? 0 : -1;});
-  $('#product-image').src = './assets/' + view.image + '?v=runways-35';
+  $('#product-image').src = './assets/' + view.image + '?v=workspace-36';
   $('#product-image').alt = view.alt;
   $('#product-description').textContent = view.text;
   $('#product-panel').setAttribute('aria-labelledby','tab-'+name);
